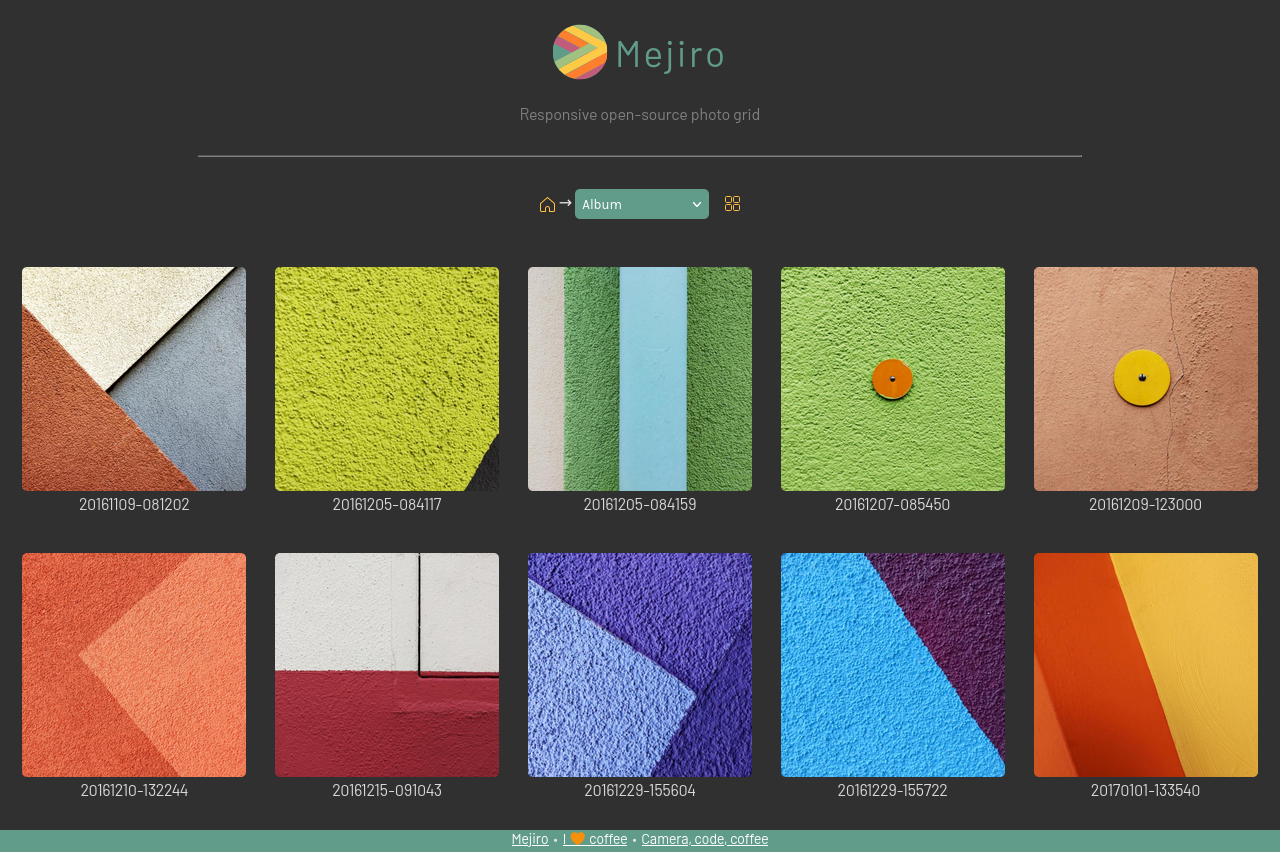
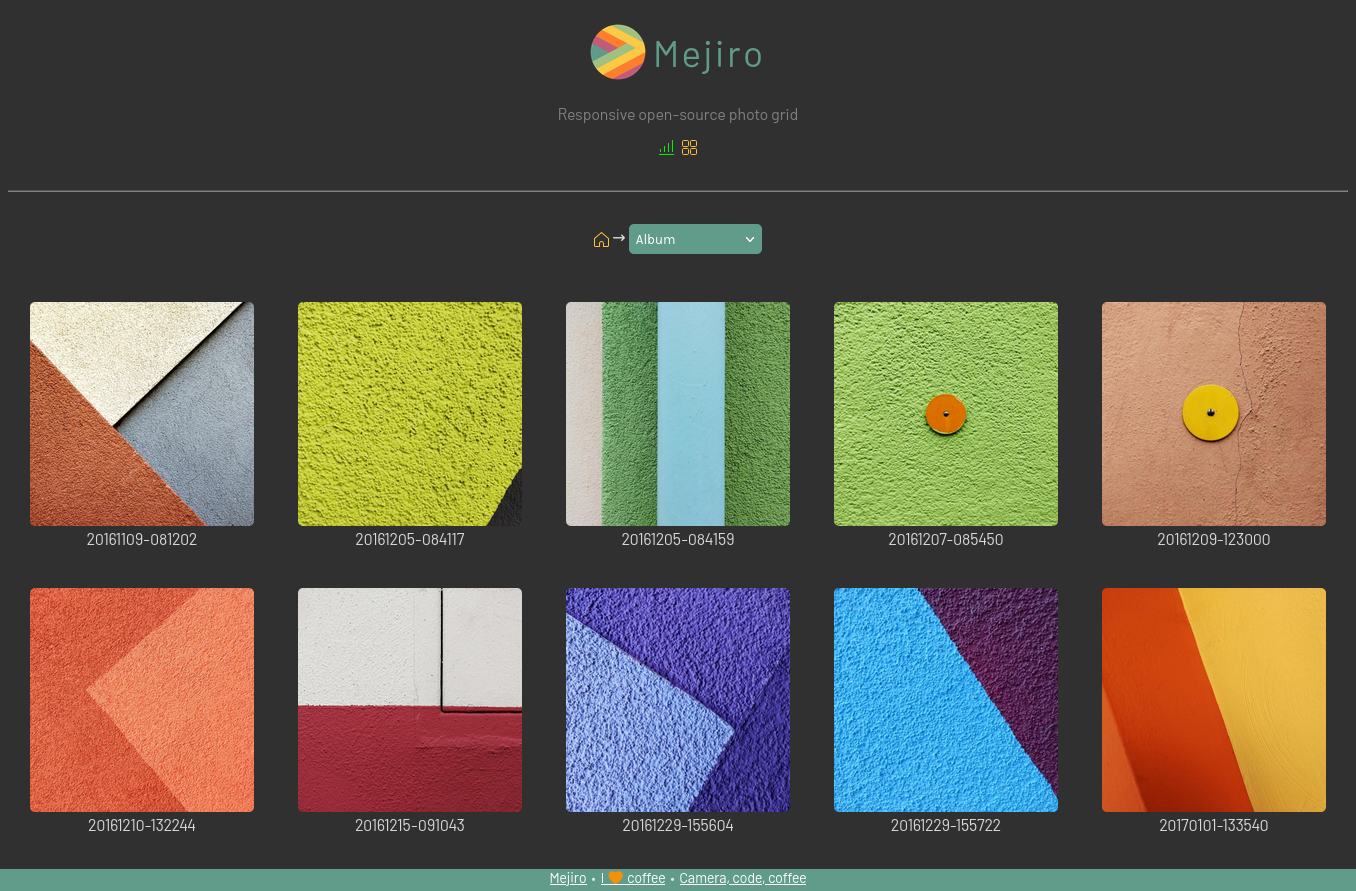
Improve stats

diff --git a/index.php b/index.php
@@ -49,6 +49,10 @@ set_time_limit(600);
 		} else {
 			$sub_photo_dir = null;
 		}
+		// Create $base_photo_dir if it doesn't exist
+		if (!file_exists($base_photo_dir)) {
+			mkdir($base_photo_dir, 0755, true);
+		}
 		$photo_dir = str_replace(DIRECTORY_SEPARATOR . DIRECTORY_SEPARATOR, DIRECTORY_SEPARATOR, $base_photo_dir . DIRECTORY_SEPARATOR . $sub_photo_dir . DIRECTORY_SEPARATOR);
 
 		/*
@@ -195,14 +199,16 @@ set_time_limit(600);
 			echo '<a style="text-decoration:none;" href="' . basename($_SERVER['PHP_SELF']) . '"><img style="display: inline; height: 3.5em; vertical-align: middle;" src="favicon.png" alt="Mejiro" /></a>';
 			echo '<a style="text-decoration:none;" href="' . basename($_SERVER['PHP_SELF']) . '"><h1 style="display: inline; font-size: 2.3em; margin-left: 0.19em; vertical-align: middle; letter-spacing: 3px; color: #619b8a;">' . $title . '</h1></a>';
 			echo '</div>';
-			echo "<div class ='center' style='color: gray;'>" . $subtitle . "</div>";
+			echo "<div class ='center' style='color: gray; margin-bottom: 1em;'>" . $subtitle . "</div>";
 			echo "<div class ='center'>";
-			// Display the grid icon if there are several pages
+			// Show stats icon
+			echo '<a href="stats.php"><img src="svg/stats.svg" alt="' . L::stats . '" title="' . L::stats . '"/></a>';
+			// Show the grid icon if there are several pages
 			if (!isset($_GET["all"])) {
 				$all = null;
 			}
 			if (isset($_GET["all"]) != 1 && $file_count > $per_page) {
-				echo '<a href="?all=1' . $and_d . '"><img src="svg/display-grid.svg" alt="' . L::img_show_all . '" title="' . L::img_show_all . '"/></a>';
+				echo '<a href="?all=1' . $and_d . '"><img  style="margin-left: .5em;" src="svg/display-grid.svg" alt="' . L::img_show_all . '" title="' . L::img_show_all . '"/></a>';
 			}
 			echo "</div>";
 			echo '<hr style="margin-bottom: 2em;">';

diff --git a/stats.php b/stats.php
@@ -1,7 +1,7 @@
 <?php
 include('config.php');
 // include i18n class and initialize it
-require_once 'i18n.claIs.php';
+require_once 'i18n.class.php';
 $i18n = new i18n();
 $i18n->setCachePath('cache');
 $i18n->setFilePath('lang/{LANGUAGE}.ini');
@@ -57,7 +57,8 @@ if (!extension_loaded('exif')) {
             return $return;
         }
 
-        $files = rsearch($base_photo_dir, 'tims', array('jpg', 'jpeg', 'jpeg', 'JPEG'));
+        $files = rsearch($base_photo_dir, 'tims', explode(',', $img_formats));
+        $raw_files = rsearch($base_photo_dir, 'tims', explode(',', $raw_formats));
 
         $stats = array();
         foreach ($files as $file) {
@@ -67,7 +68,7 @@ if (!extension_loaded('exif')) {
         }
         echo "
         <div class='c'>
-        <h2 style='text-align: left;'>" . L::camera_models . "</h2>
+        <h2 style='text-align: left;'>" . L::cameras . "</h2>
         <div class='card'>
         <table>
         ";
@@ -76,6 +77,15 @@ if (!extension_loaded('exif')) {
         foreach ($count as $key => $value) {
             echo "<tr><td>$key</td><td>$value</td></tr>";
         }
+        echo "
+        </table>
+        </div>
+        <h2 style='text-align: left;'>" . L::stats . "</h2>
+        <div class='card'>
+        <table>
+        ";
+        echo "<tr><td>" . L::stats_photos . "</td><td>" . count($files) . "</td></tr>";
+        echo "<tr><td>" . L::stats_raw_files . "</td><td>" . count($raw_files) . "</td></tr>";
         echo "
         </table>
         </div>

diff --git a/config.php b/config.php
@@ -4,7 +4,7 @@ $subtitle = "Responsive open-source photo grid";
 $password = "secret"; // Password to delete photos
 $base_photo_dir = "photos"; // Directory for storing photos
 $per_page = 12; // Number of images per page for pagination
-$r_sort = false; // Set to true to show photos in the reversed order (oldest ot newest)
+$r_sort = false; // Set to true to show tims in the newest to oldest order
 $footer = "<a style='color: white' href='https://cameracode.coffee'>Camera, code, coffee</a>";
 $links = true;	// Enable links in the footer
 // If $links is set to true, specify the desired URLs
@@ -12,7 +12,7 @@ $urls = array(
     array('https://github.com/dmpop/mejiro', 'Mejiro'),
     array('https://www.paypal.com/paypalme/dmpop', 'I 🧡 coffee')
 );
-$img_formats = 'jpg,jpeg,JPG,JPEG'; // File types Mejiro show display. Add other file extensions (for example, PNG, HEIC, etc.), if needed.
+$img_formats = 'jpg,jpeg,JPG,JPEG'; // File types Mejiro displays. Add other file extensions (for example, PNG, HEIC, etc.), if needed.
 $show_raw = true; // Toggle links to RAW files
 $raw_formats = 'ARW,arw,NEF,nef,ORF,orf,DNG,dng'; // Supported RAW formats. Add other file extensions, if needed
 $download = false; // Toggle photo download

diff --git a/README.md b/README.md
@@ -20,6 +20,7 @@ The [Mejiro for photographers](https://dmpop.gumroad.com/l/mejiro-for-photograph
 - **Automatic language detection** Mejiro automatically detects the browser language and picks the description text file with the appropriate language prefix.
 - **Link to RAW** For each photo in the JPEG format, you can upload the accompanying RAW file, and Mejiro automatically adds a link to it. This feature can be disabled.
 - **Support for subfolders** Photos inside the default photo directory can be organized into subfolders.
+- **Statistics** View basic statistics: camera models and the total number of photos and RAW files.
 - **Access keys** The application supports access keys for common actions.
 - **Internationalization** support. The application automatically detects and picks the right language. Localizing Mejiro is a matter of translating a handful of text strings in a dedicated _.ini_ file.
 - **GoatCounter integration** Mejiro can be used with [GoatCounter](https://www.goatcounter.com/) web analytics.
